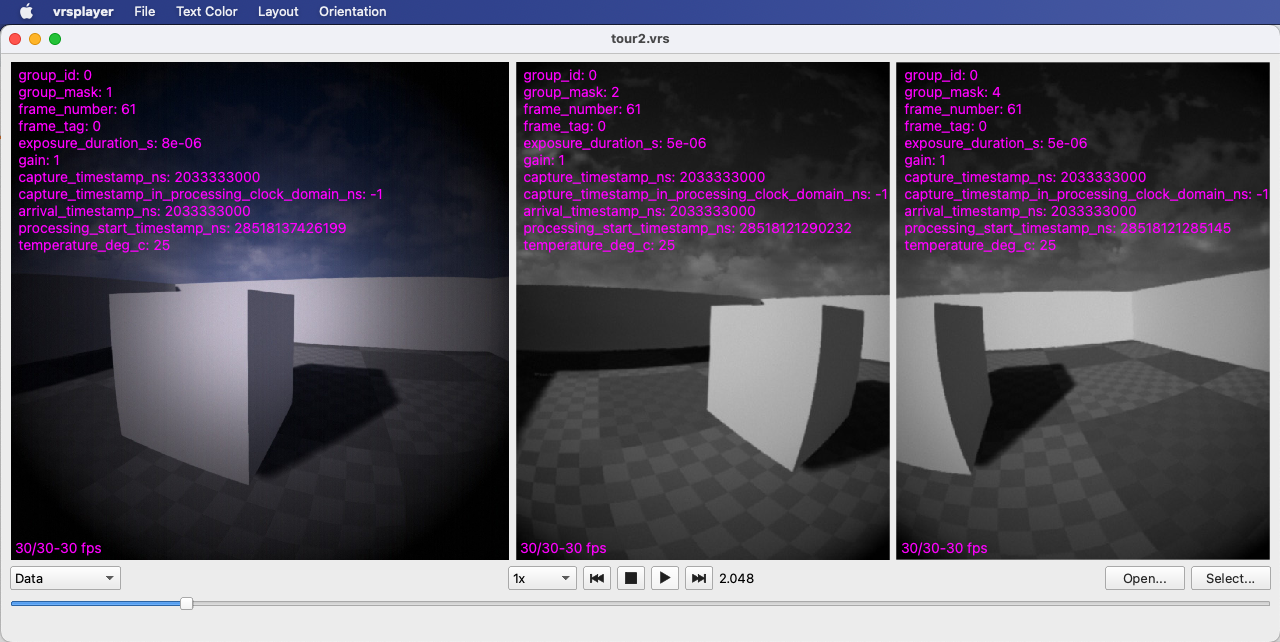
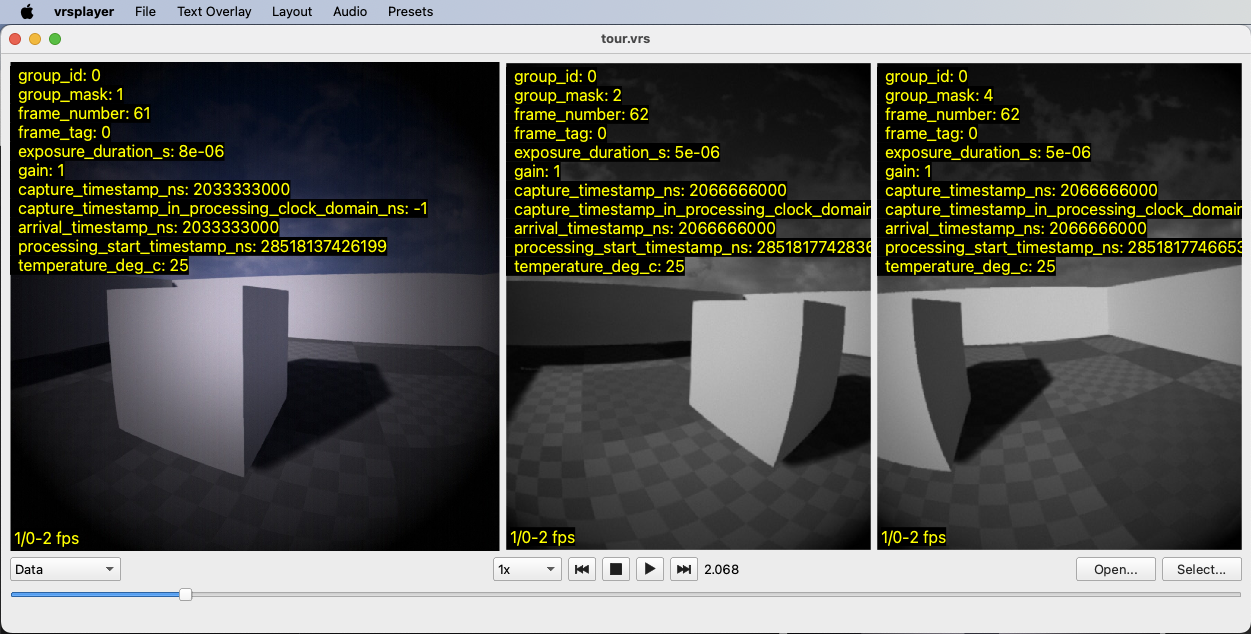
Update documentation
Summary: This diff updates the docusaurus documentation for vrsplayer to reflect the recent UI changes made to the app. Updated docusaurus components as required by the tooling.

Reviewed By: robz

Differential Revision: D56739724

fbshipit-source-id: f246b40313e0628c0718f9aa84f4925107b78408

diff --git a/website/docs/vrsplayer.md b/website/docs/vrsplayer.md
@@ -17,13 +17,17 @@ To play/pause/stop playback, use the following controls.
 
 ![Playback Controls](img/Controls.png)
 
-The Previous and Next Frame buttons will play at most one frame backward or forward for each visible stream. The Speed controls let you chose to play slower or faster. Obviously, if there is too much data to process for your system, frames will be dropped.
+The Previous and Next Frame buttons will play at most one frame backward or forward for each visible stream. The Speed controls let you choose to play slower or faster. Obviously, if there is too much data to process for your system, frames will be dropped.
 
 ## Overlay Selection
 
-The overlay selector lets you chose what information to display over the frames. Chose "Hide" to show nothing, chose "Tags" to show streams tags, chose "Configuration", "State" or "Data" to show the metadata found in the last record of that type.
+The overlay selector lets you choose what information to display over the frames. Choose "Hide" to show nothing, "Tags" to show streams tags, and "Configuration", "State" or "Data" to show the metadata found in the last record of that type.
 
 ![Overlay Control](img/OverlayPopup.png)
+
+Use the Text Overlay menubar options to control the color of the text, its font size, and whether the text is drawn on a solid background or not.
+
+![Text Overlay Menu](img/TextOverlayMenu.png)
 
 The `vrsplayer` app is improved regularly, so it's important to be able to discover functionality directly from the app's user interface. The following sections show less obvious features and controls.
 
@@ -41,17 +45,41 @@ The tooltip shown over frames shows the stream's ID ("214-1"), the `RecordableTy
 
 ## Menu Bar Commands
 
-The Menu Bar offers functionality available only there, don't forget to look there!
+The Menu Bar offers functionality that's easy to ignore, don't forget to look for more options there!
 
-The `Layout` menu's top section let you save and manage presets. Save your favorite stream display configurations, including stream orientation, stream order, which streams are visible or hidden, using the `Save Preset` command. To arrange streams, see the Context Menu section below.
-
-The commands in the lower section let you control in how many row of how many views the streams will be arranged. `Layout Frames 4x2` means using 2 rows with up to 4 streams each. The layout configurations offered depend on the number of image streams visible.
+### Layout
 
 ![Layout Menu, default](img/LayoutMenuDefault.png)
 
-Once at least one preset has been saved, you can recall or delete presets, which automatically get a keyboard shortcut for quick access.
+The `Layout` menu lets you control the number rows and the number of streams shown per row. `Layout Frames 4x2` means using 2 rows with up to 4 streams each. The layout configurations offered depend on the number of image streams visible.
 
-![Layout Menu, with presets](img/LayoutMenuWithPreset.png)
+### Audio
+
+If your file contains a VRS stream with audio data that contains more than one audio channel, the Audio menu will let you control which audio channel(s) to play. For instance, with an Aria file containing 7 audio channels, the audio menu might look like so:
+
+![Audio Menu, mono](img/AudioMenu-Mono.png)
+
+In this situation, the Mono playback option was selected, so you can choose to play any of the 7 audio channels. If your system supports stereo playback (as most systems do), that channel will be played on both output channels. Use this option to listen to audio channels individually.
+
+Assuming your system supports stereo playback, you can choose one of two stereo channel pairing modes: Auto Channel Pairing, and Manual Channel Pairing.
+
+![Audio Menu, stereo - auto-pairing](img/AudioMenu-Stereo-AutoPairing.png)
+
+Auto Channel Pairing lets you select a first audio channel ("left"), and the next audio channel will automatically be used as the "right" channel. If that automatic selection is not what you need, use the Manual Channel Pairing option:
+
+![Audio Menu, stereo - manual-pairing](img/AudioMenu-Stereo-ManualPairing.png)
+
+In this mode, you can select arbitrary channels for the "left" and "right" channel of your stereo playback.
+
+### Presets
+
+![Presets Menu, save](img/PresetsMenuSave.png)
+
+The `Presets` menu's top section lets you save and manage presets. Use the `Save Preset` command to save your favorite stream display and audio configurations, including stream orientation, stream order, and which streams are visible or hidden. To arrange the image streams, you can also use the options presented in the Context Menu section below.
+
+![Presets Menu, delete](img/PresetsMenu.png)
+
+Once at least one preset has been saved, you can recall or delete presets, which automatically get a keyboard shortcut for quick access.
 
 ## Context Menu
 
@@ -70,7 +98,7 @@ Normal playback tries to flow at timestamp speed, and frames will be dropped eas
 ![fps display](img/FpsDisplay.png)
 
 - the first number (16) is the count of records read from disk per second. During playback, it should be the highest of all the counters. That step includes reading data from storage, lossless decompression, data interpretation and `StreamPlayer` callbacks processing. Reading files is a single threaded operation (as file APIs typically are), so this work is done by same thread for all streams, which is no decoding or conversion work is done on that thread.
-- the second number (4) is count of frames "decoded" per second. If images are encoded (jpg/png) they will be decoded. Then if the frames needs to be transcoded to a different pixel format for display, they'll be converted to a Qt friendly pixel format. If processing is too expensive, frames might be skipped at that stage. That second number can only be equal or lower than the first. This processing is happening on a dedicated thread for each stream.
+- the second number (4) is the count of frames "decoded" per second. If images are encoded (jpg/png) they will be decoded. Then if the frames need to be transcoded to a different pixel format for display, they'll be converted to a Qt friendly pixel format. If processing is too expensive, frames might be skipped at that stage. That second number can only be equal or lower than the first. This processing is happening on a dedicated thread for each stream.
 - the last number (2) is the "display" fps ("frames per second"), which is the number of times the code that draws the frame in the Qt widget is called each second. During playback, the number should be equal or lower than the second, but if you resize the windows, that number can go way up, as even if playback is paused and the two first are frozen, this counter will be updated as the window is updated. All draw operations happen in the app's single UI thread.
 
 Putting it all together, for replay, one thread reads the files and extracts the raw image data, one thread draws the processed images in the user interface, but each stream has its own thread to do its image processing independently.
